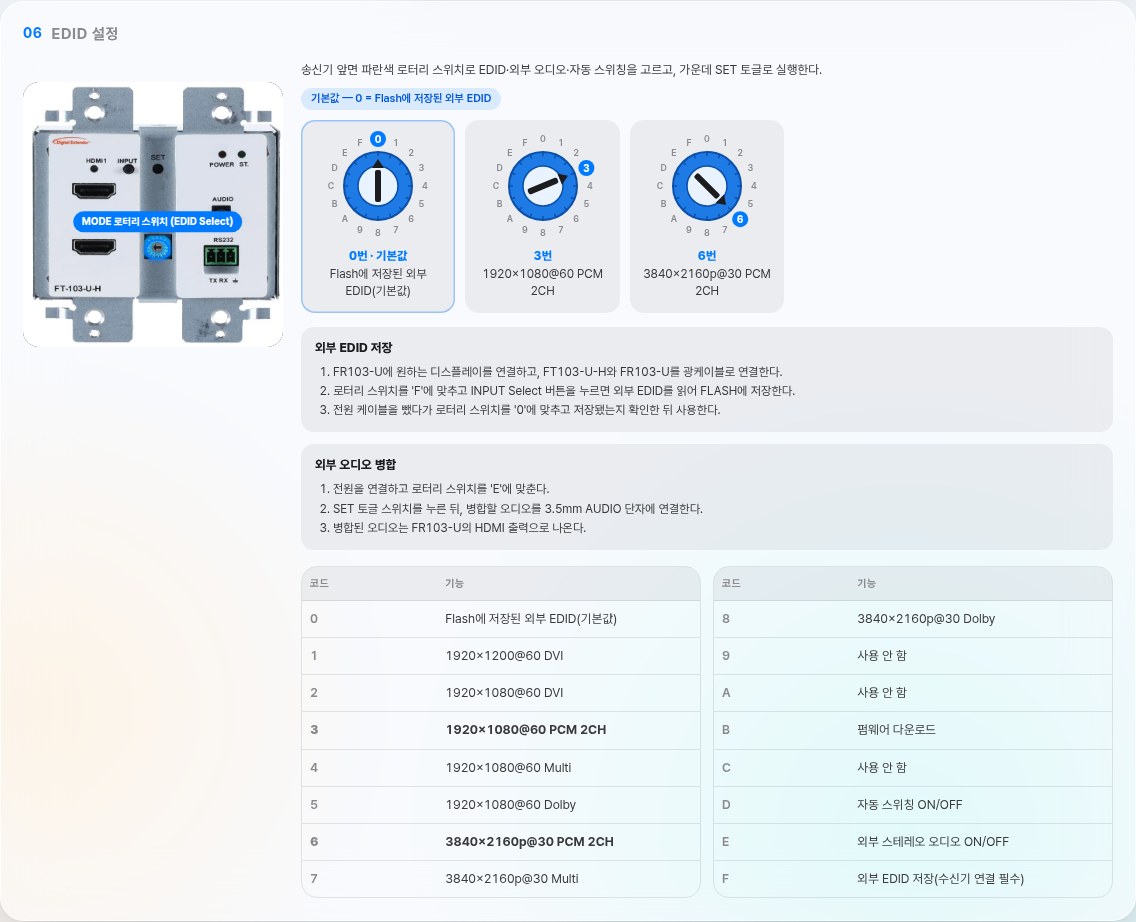
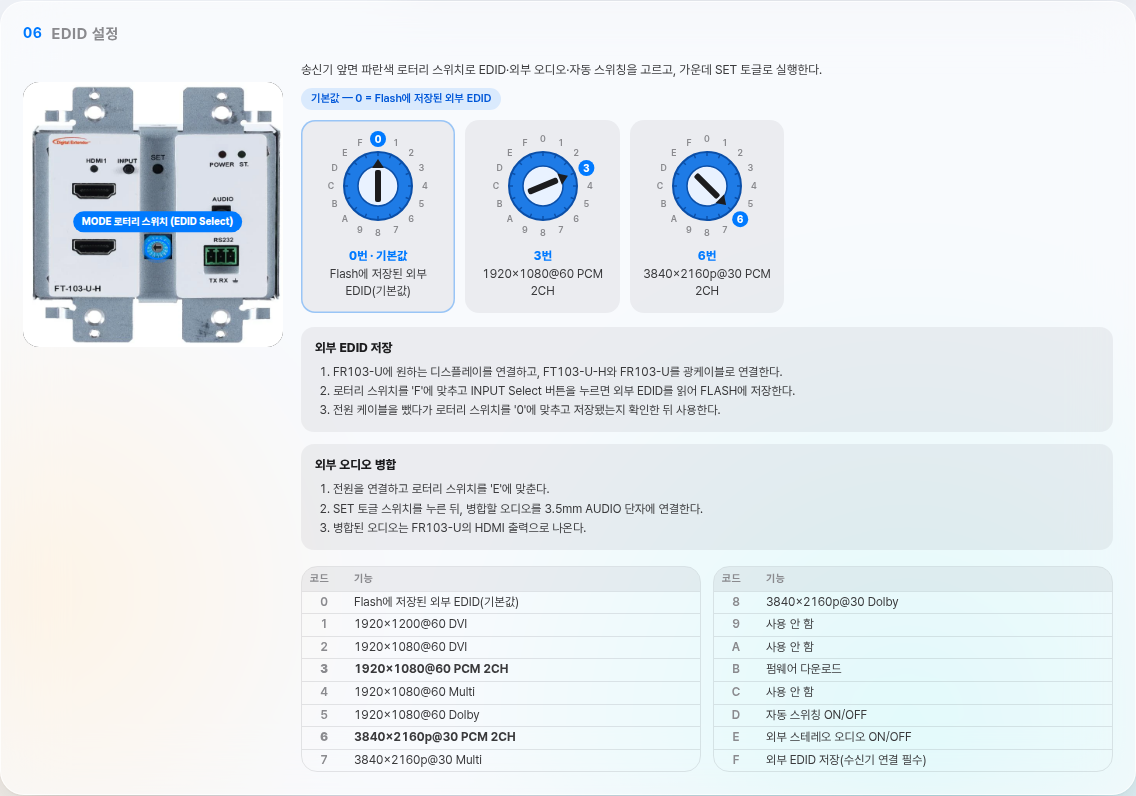
style: EDID 코드표 세로 크기 축소(줄 여백 9px → 3px, 코드 칸 44px)
Claude-Session: https://claude.ai/code/session_01V3dms2CC6NHWtyRSKKrJnV

diff --git a/src/styles.css b/src/styles.css
@@ -848,3 +848,8 @@ html{background:#f3f3ef}body{margin:0;padding:24px 16px;font-family:Arial,'Malgu
 #rtcom-design .rt-pg-rotary figcaption{font-size:12px;line-height:1.45;color:var(--pg-ink-2)}
 #rtcom-design .rt-pg-rotary em{display:block;font-style:normal;font-size:12px;font-weight:800;color:var(--pg-accent)}
 @media(max-width:720px){#rtcom-design .rt-pg-rotary-row{grid-template-columns:repeat(3,1fr);gap:6px}#rtcom-design .rt-pg-rotary{padding:8px 4px 10px}#rtcom-design .rt-pg-rotary svg{width:84px;height:84px}#rtcom-design .rt-pg-rotary figcaption{font-size:11px}}
+/* 0.59 EDID 코드표 세로 크기 축소(사용자 요청 "하단 표 상하 크기 대폭 줄여줘"): 줄 여백을 줄이고 코드 칸을 좁혀 긴 기능 이름도 한 줄에 들어가게 한다 */
+#rtcom-design .rt-pg-edid-body .rt-pg-tablewrap table{font-size:12px;line-height:1.3}
+#rtcom-design .rt-pg-edid-body .rt-pg-tablewrap th,#rtcom-design .rt-pg-edid-body .rt-pg-tablewrap td{padding:3px 8px}
+#rtcom-design .rt-pg-edid-body .rt-pg-tablewrap th{padding-top:5px;padding-bottom:5px}
+#rtcom-design .rt-pg-edid-body .rt-pg-tablewrap td:first-child{width:44px;text-align:center}

diff --git a/CHANGELOG.md b/CHANGELOG.md
@@ -15,6 +15,7 @@
 
 - **EDID 로터리 대표 설정 그림**(사용자 요청 "EDID 로터리 스위치도 대표적인 것을 DIP 스위치처럼 예상 이미지 만들어 봐줘"): EDID 설정 카드의 설명 아래에 제품 사진과 같은 파란 16단(0~F) 로터리 그림을 넣었습니다. 화살표가 고른 코드를 가리키고, 그 코드 글자를 파란 원으로 표시합니다. 보여주는 코드는 기본값과 자주 쓰는 코드(`edidSwitch.table[].highlight`)이며 최대 4개입니다. 기본값 그림은 파란 테두리와 "기본값" 표시로 구분합니다.
 - 자주 쓰는 코드가 없던 3종에 강조를 더했습니다(코드표에서도 굵게 표시): HDS-21U·HDS-42MU는 3번(1920×1080p@60 PCM 2CH)과 9번(3840×2160p@60 PCM 2CH), FT103-U-H/FR103-U는 3번(1920×1080p@60 PCM 2CH)과 6번(3840×2160p@30 PCM 2CH, 이 제품의 최대 해상도). 분배기 4종(1·7번)과 같은 기준입니다.
+- **EDID 코드표 세로 크기 축소**(사용자 요청 "하단 표 상하 크기 대폭 줄여줘"): EDID 설정 카드 아래 코드표의 줄 여백을 9px에서 3px로 줄이고 코드 칸을 좁혀(44px, 가운데 정렬) 16행 표 높이를 약 350px에서 약 210px로 줄였습니다. 다른 표(04 제품 사양 등)는 그대로입니다.
 - 휴대폰에서는 그림 3개를 한 줄에 둡니다. e2e: HD-13U(0·1·7), HDS-42MU(0·3·9), FT103-U-H/FR103-U(0·3·6) 확인(105/105).
 - 함께 묶은 다른 세션 작업(0.58.0 배포 이후): EDID 로터리 태그 위쪽 잘림 수정, 06 EDID 카드의 05 옆 배치 되돌림(빈 공간 방지), 긴 EDID 코드표 좌우 분할.
 - 되돌리기: 해당 커밋을 `git revert`하면 로터리 그림과 추가한 강조가 빠집니다. QA: `docs/qa/EDID_ROTARY_EXAMPLES_QA_2026-09-27.md`.

diff --git a/docs/qa/EDID_ROTARY_EXAMPLES_QA_2026-09-27.md b/docs/qa/EDID_ROTARY_EXAMPLES_QA_2026-09-27.md
@@ -17,6 +17,8 @@
 | HDS-21U·HDS-42MU | 0(기본값)·3·9번 | 이번에 3·9번 강조 추가(1080p60·4K60 PCM 2CH) |
 | FT103-U-H/FR103-U | 0(기본값)·3·6번 | 이번에 3·6번 강조 추가(1080p60·4K30 PCM 2CH, 최대 해상도 4K30) |
 
+- 코드표 축소(사용자 요청 "하단 표 상하 크기 대폭 줄여줘"): EDID 카드 안의 코드표만 줄 여백 3px·글자 12px·코드 칸 44px로 바꿨습니다. HD-13U 16행 표 높이가 약 350px에서 약 210px로 줄었습니다.
+
 ## 3. 검증
 
 - `node --test tests/*.test.cjs`: 39/39 통과
